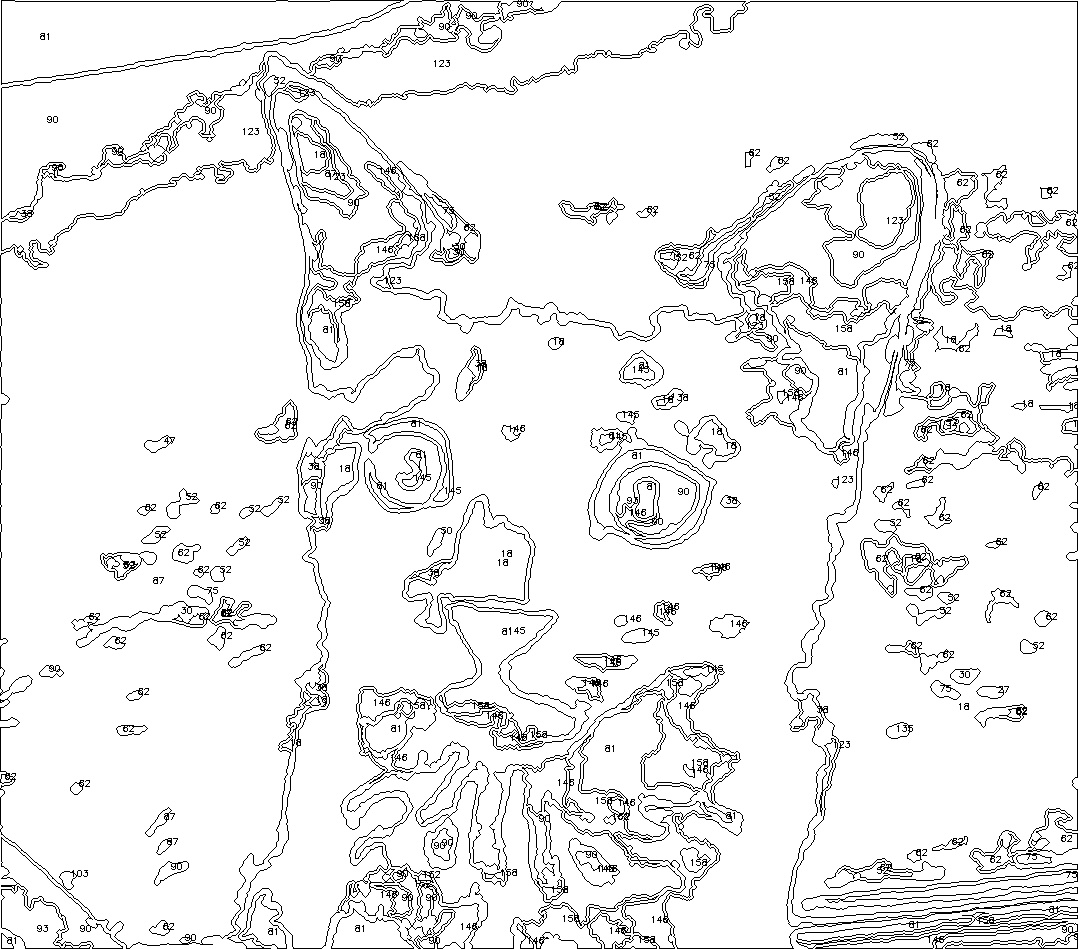
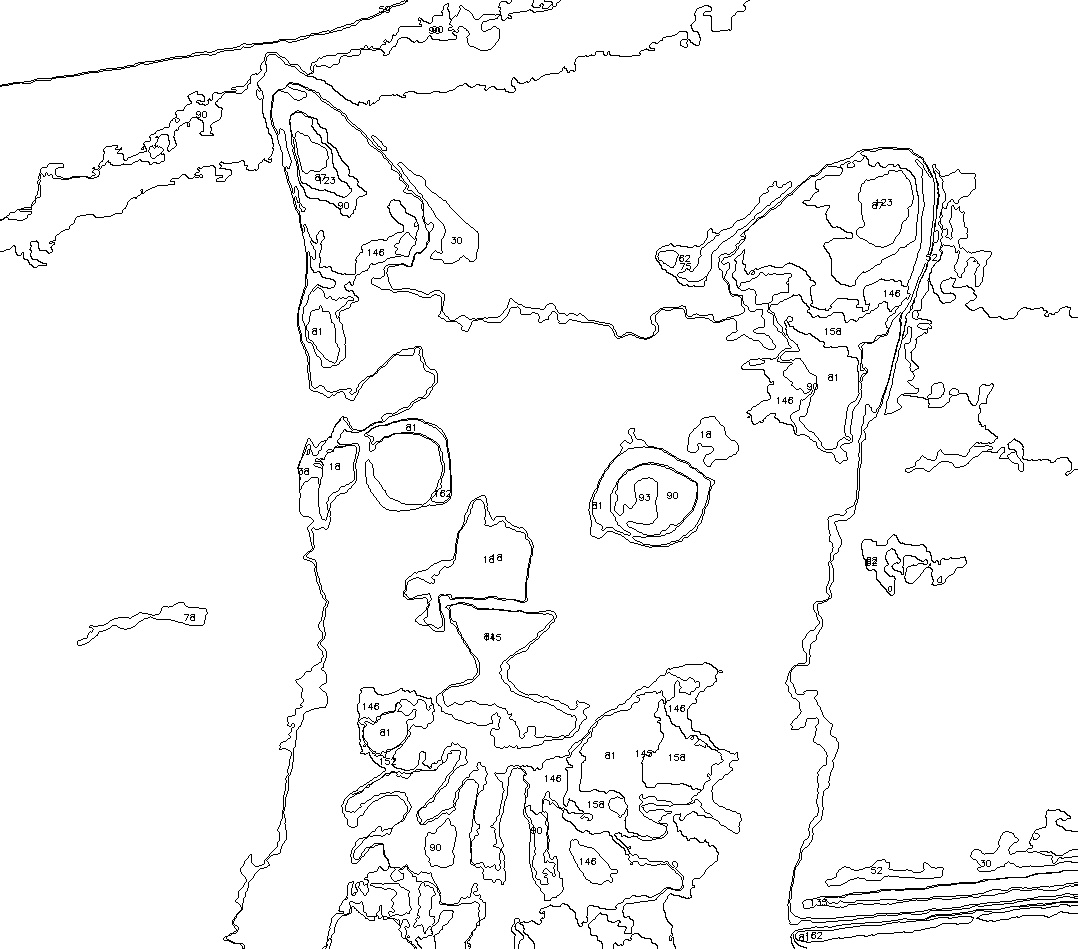
numbering fix

diff --git a/web/static/js/diy_func.js b/web/static/js/diy_func.js
@@ -1,6 +1,6 @@
 $(window).on('load', function(){
     // var image_path = '../static/org_image/222.jpg';
-    var image_path = '../static/org_image/1.png';
+    var image_path = '../static/org_image/iron.png';
     var pic_size = 600;
 
     var brush_cursor = document.querySelector('.brush_cursor');

diff --git a/libs/imageProcessing.py b/libs/imageProcessing.py
@@ -288,9 +288,12 @@ def getRadiusCenterCircle(contour, thresh):
 
 @numba.jit(forceobj = True)
 def getRadiusCenterCircle3(raw_dist):
-    dist_transform = cv2.distanceTransform(raw_dist, cv2.DIST_L2, 5)
+    dist_transform = cv2.distanceTransform(raw_dist, cv2.DIST_L2, maskSize=5)
     result = cv2.normalize(dist_transform, None, 255, 0, cv2.NORM_MINMAX, cv2.CV_8UC1)
-    return result
+    
+    minVal, maxVal, _, center = cv2.minMaxLoc(result)
+
+    return center
 
 
 
@@ -306,7 +309,7 @@ def setColorNumberFromContours(img, thresh, contours, hierarchy, img_lab, lab, c
         contour = contours[idx]
 
         # 면적 
-        if cv2.contourArea(contour) < 10: continue
+        if cv2.contourArea(contour) < 100: continue
 
         # 둘레
         # if cv2.arcLength(contour)
@@ -318,10 +321,9 @@ def setColorNumberFromContours(img, thresh, contours, hierarchy, img_lab, lab, c
         # next_idx = hierarchy[0, idx, 0]
         
         
-        raw_dist = np.empty(thresh.shape, dtype=np.float32)
+        raw_dist = np.zeros(thresh.shape, dtype=np.uint8)
         cv2.drawContours(raw_dist, contour_org, -1, (255, 255, 255), 1)
         cv2.fillPoly(raw_dist, pts =[contour_org], color=(255, 255, 255))
-        ret, raw_dist = cv2.threshold(raw_dist, 0, 255, cv2.THRESH_BINARY)
 
         # 자식 contour 있으면 걔랑 합침 (도넛모양)
         if child_idx != -1:
@@ -329,11 +331,13 @@ def setColorNumberFromContours(img, thresh, contours, hierarchy, img_lab, lab, c
             # cv2.drawContours(raw_dist, child, -1, (255, 255, 255), 1)
             cv2.fillPoly(raw_dist, pts =[child], color=(0, 0, 0))
 
+        n_white_pix = np.sum(raw_dist == 255)
+
+        # 작은 컨투어 무시
+        if n_white_pix < 1000: continue
+
+        # ret, raw_dist = cv2.threshold(raw_dist, 0, 255, cv2.THRESH_BINARY)
         center = getRadiusCenterCircle3(raw_dist)
-        
-        cv2.imshow('draw_contour', center)
-        cv2.waitKey(0)
-        continue
 
         #     c_list = [contour]
 
@@ -350,16 +354,13 @@ def setColorNumberFromContours(img, thresh, contours, hierarchy, img_lab, lab, c
         #     contour = np.concatenate( tuple(c_list) )
 
         # 내심원 반지름, 좌표 계산
-        radius, center = getRadiusCenterCircle(contour, thresh)
+        # radius, center = getRadiusCenterCircle(contour, thresh)
 
         
         if center is not None:
-            # 작은 컨투어 무시
-            if int(radius) < 3 : continue
-
             #    컨투어를 그림
             cv2.drawContours(img, contour_org, -1, (0, 0, 0), 1)
-            cv2.circle(img, center, int(radius), (0,0,255), 1, cv2.LINE_8, 0)
+            # cv2.circle(img, center, int(radius), (0,0,255), 1, cv2.LINE_8, 0)
 
             # 컨투어 내부에 검출된 색을 표시
             color_text = label(img_lab, contour_org, lab, colorNames)
